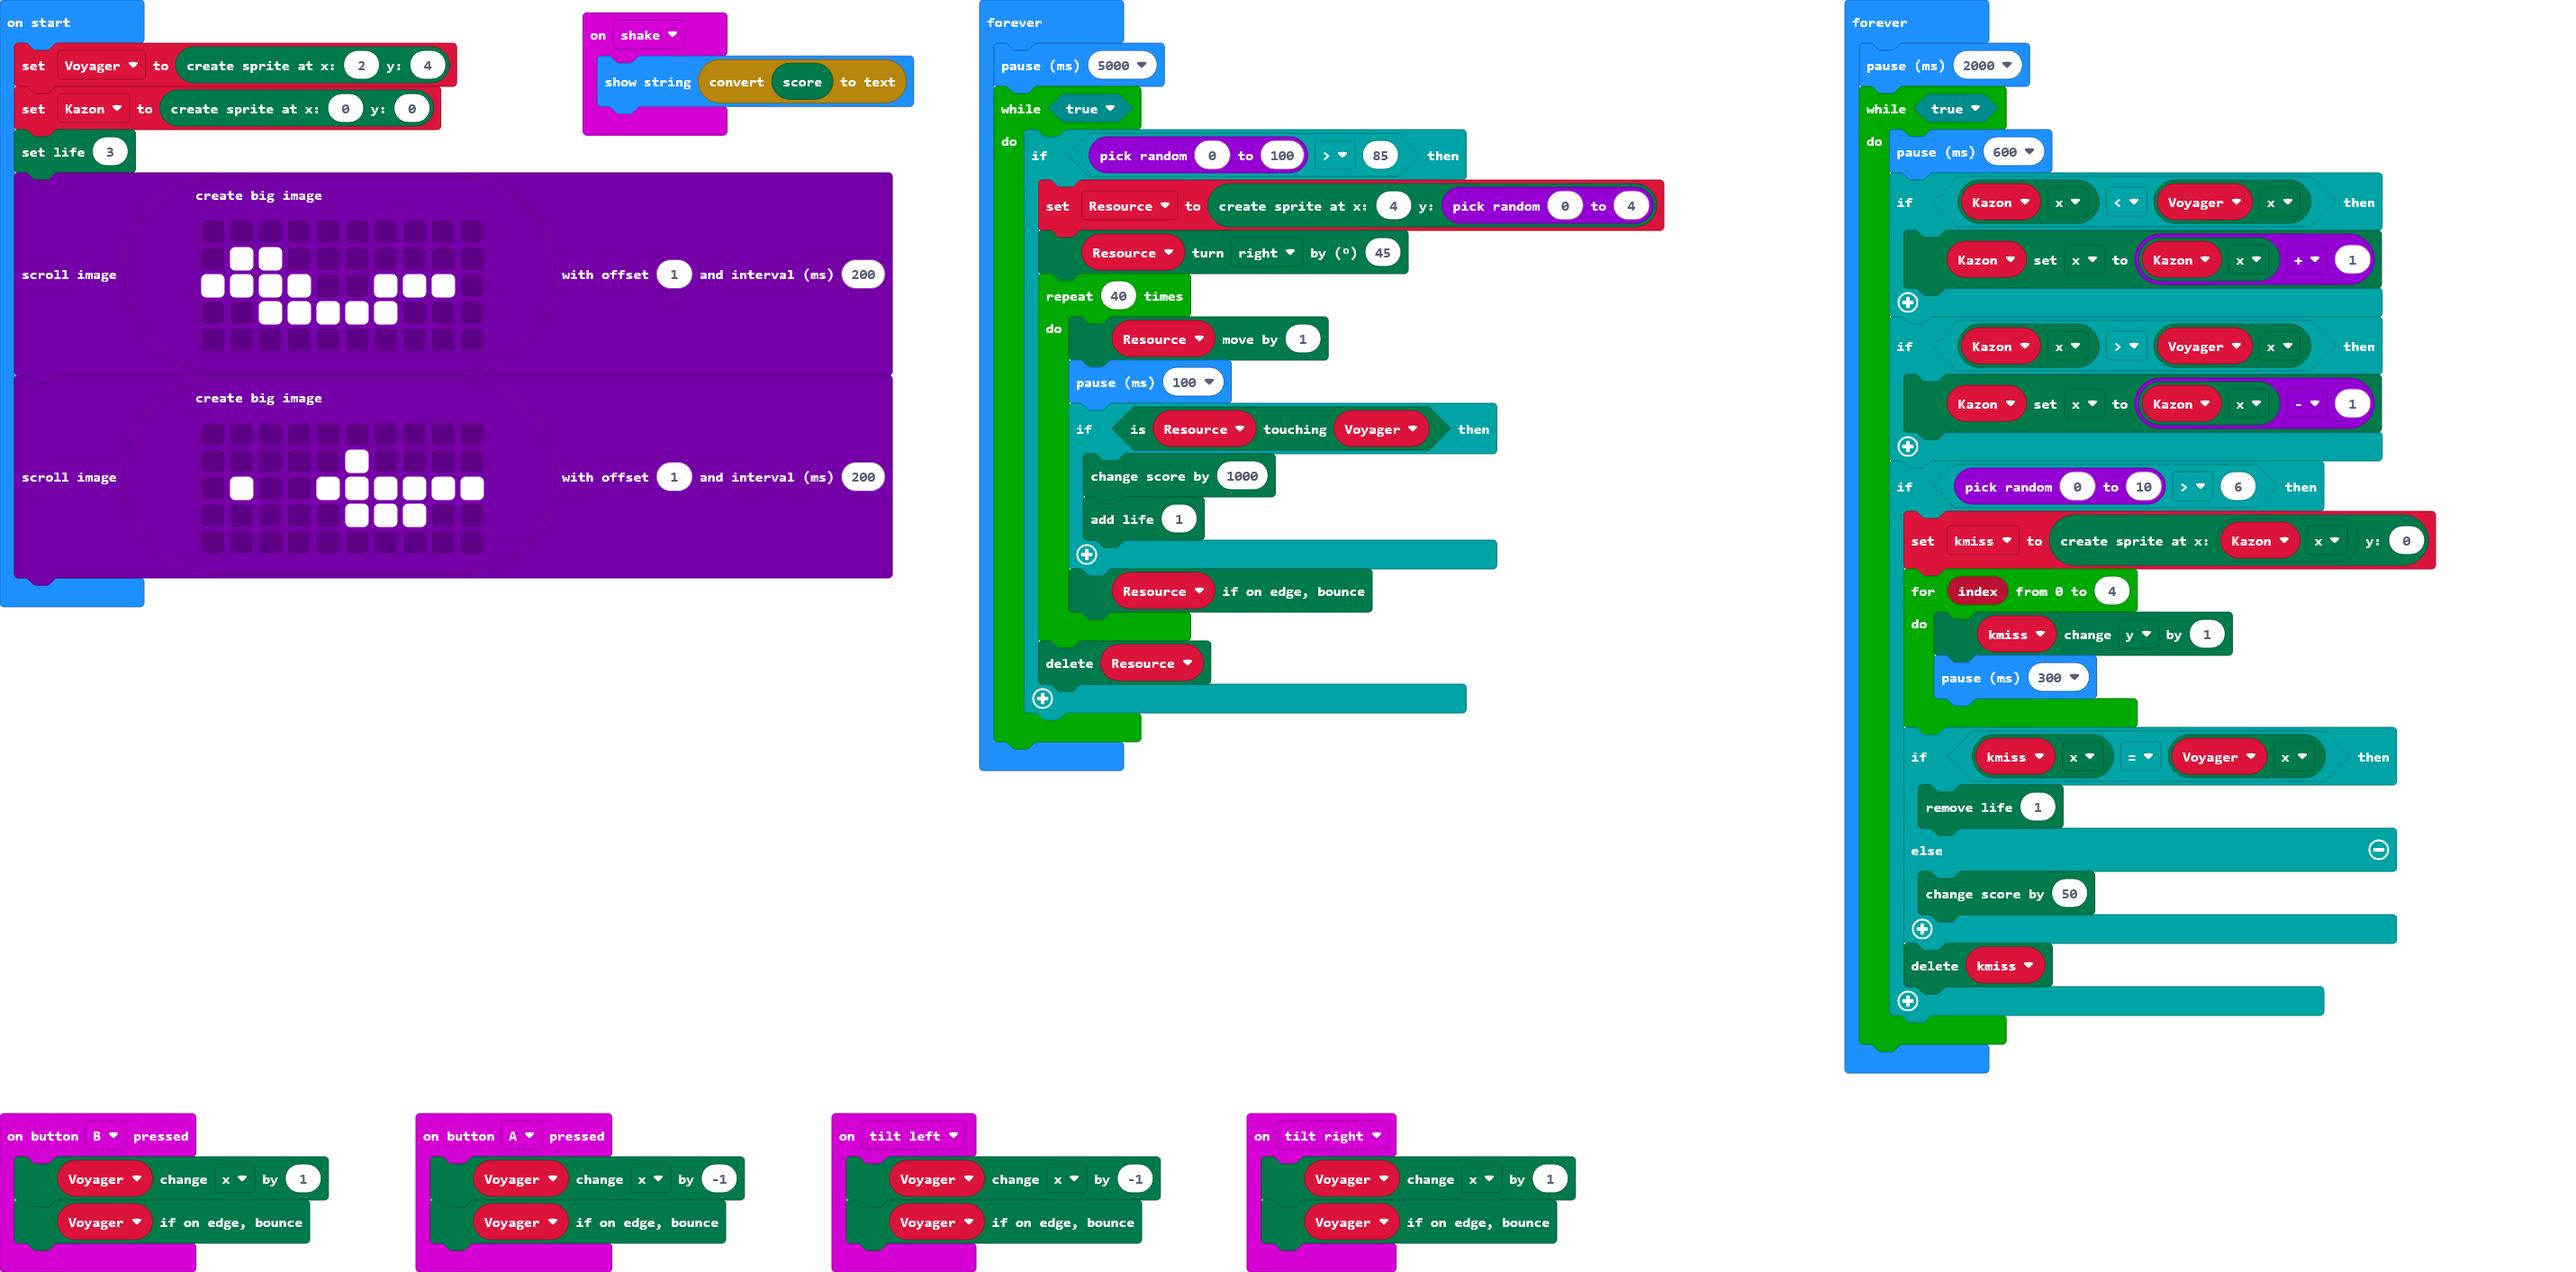
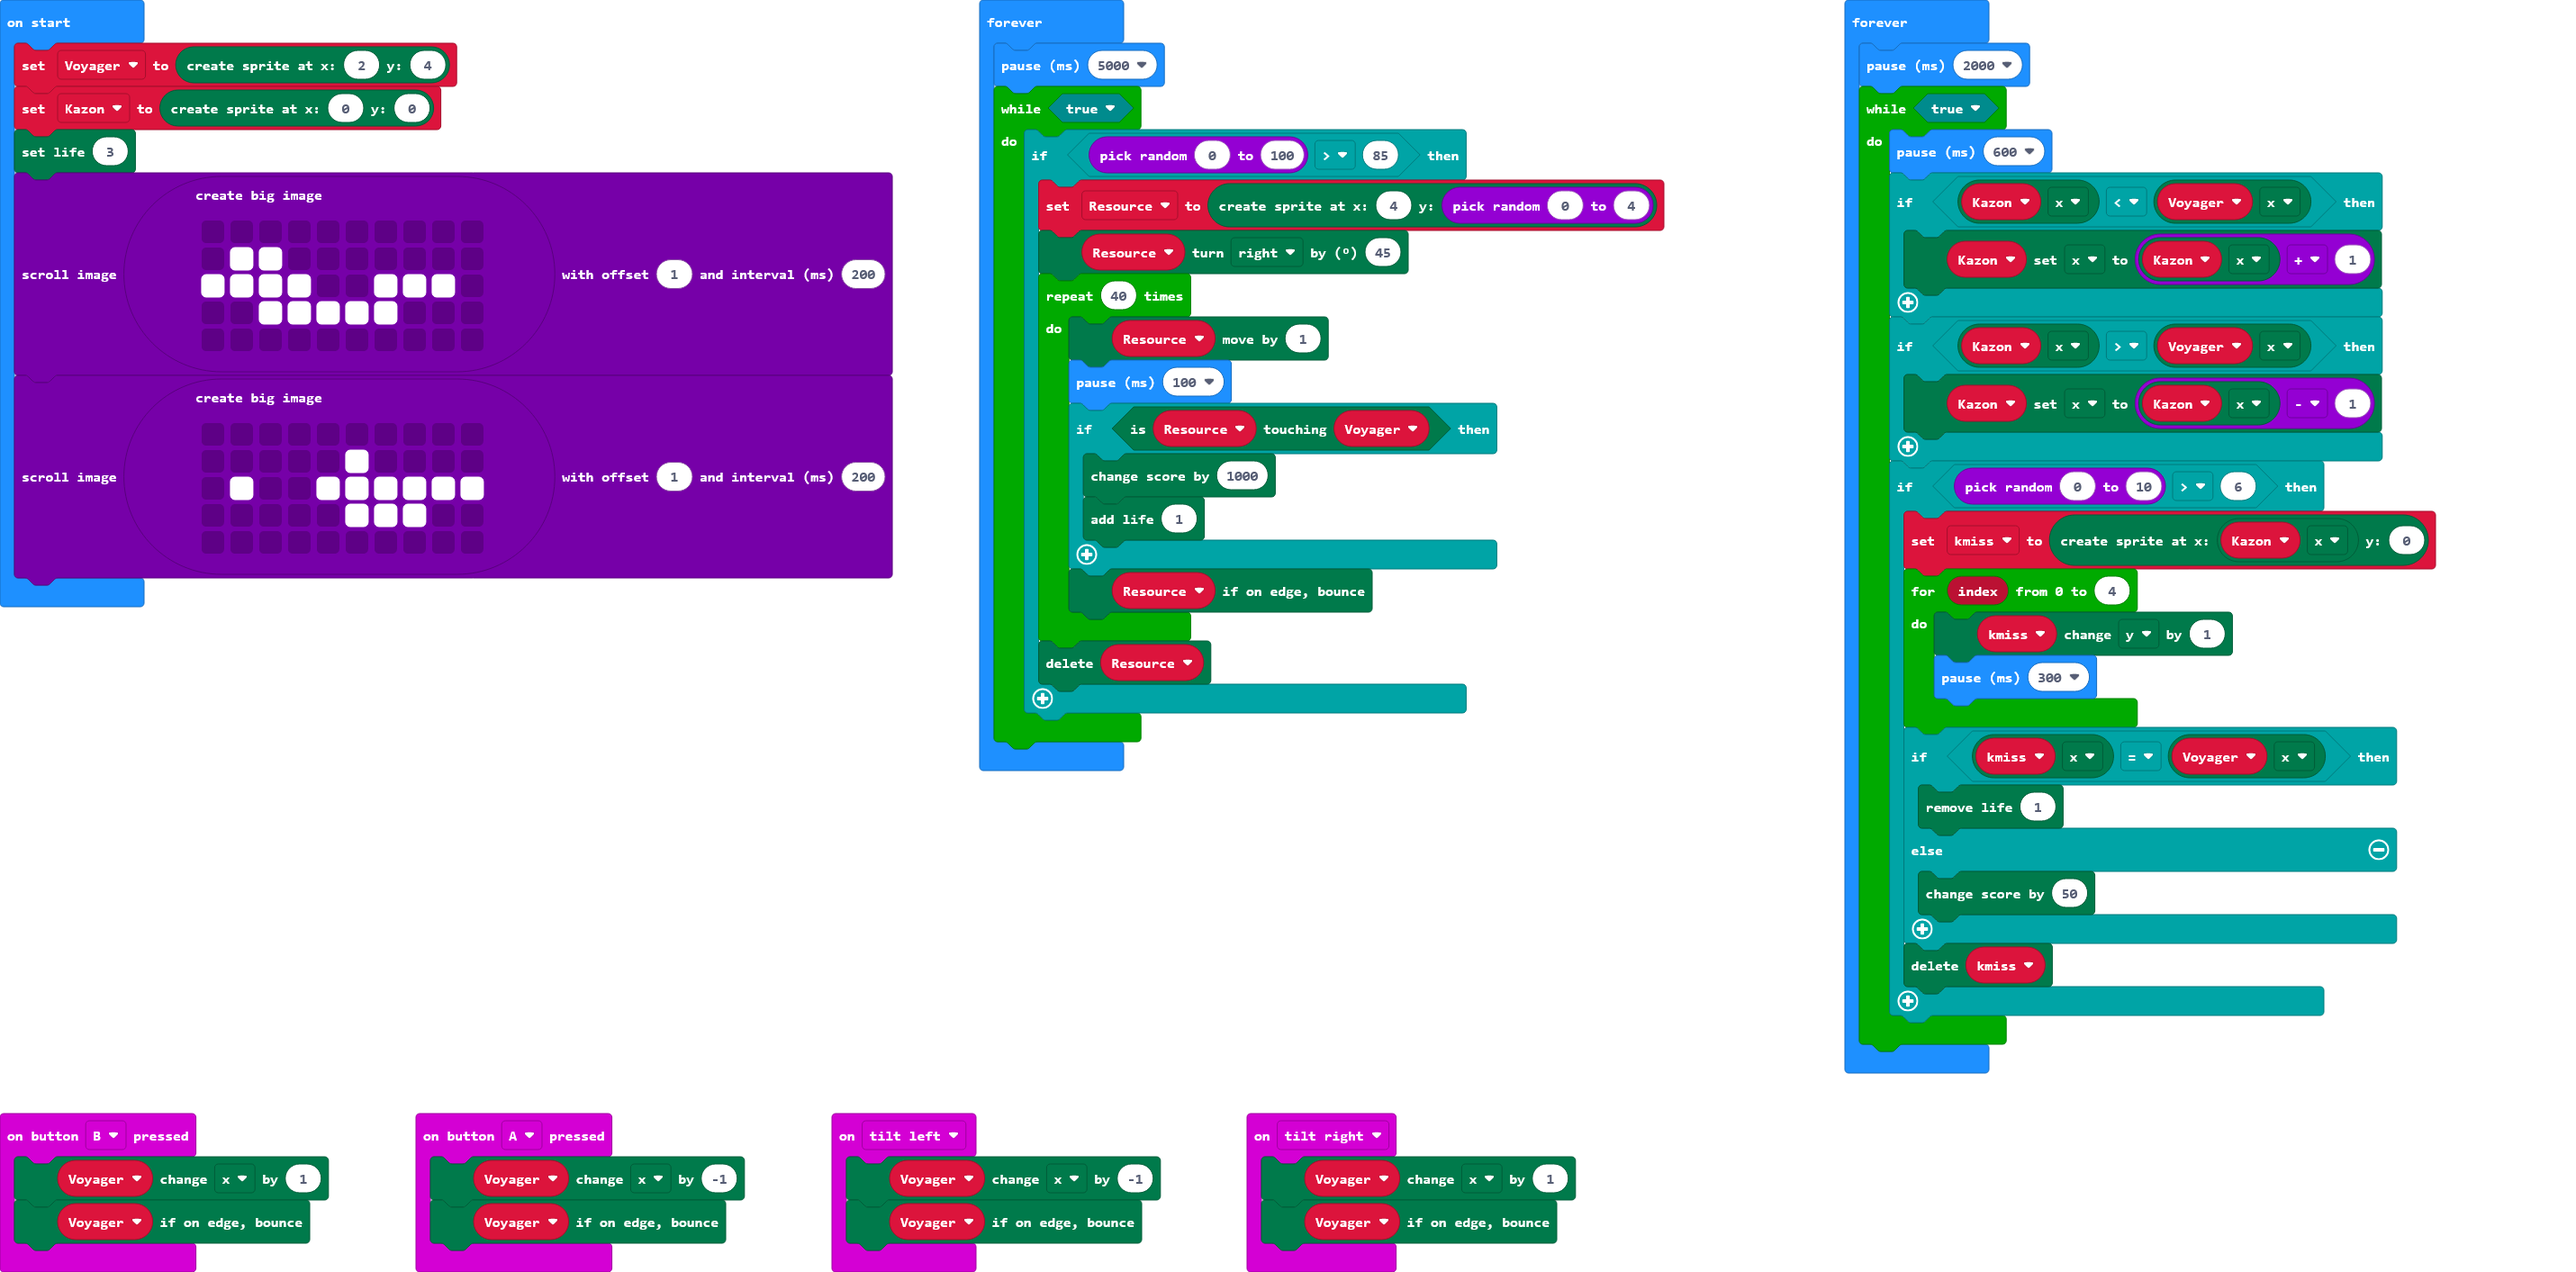
Update main.blocks, main.ts

Changed region(s): [[0.2178, 0.0, 0.3733, 0.1246]]

diff --git a/main.ts b/main.ts
@@ -10,9 +10,6 @@ input.onButtonPressed(Button.B, function () {
     Voyager.change(LedSpriteProperty.X, 1)
     Voyager.ifOnEdgeBounce()
 })
-input.onGesture(Gesture.Shake, function () {
-    basic.showString(convertToText(game.score()))
-})
 input.onGesture(Gesture.TiltRight, function () {
     Voyager.change(LedSpriteProperty.X, 1)
     Voyager.ifOnEdgeBounce()
